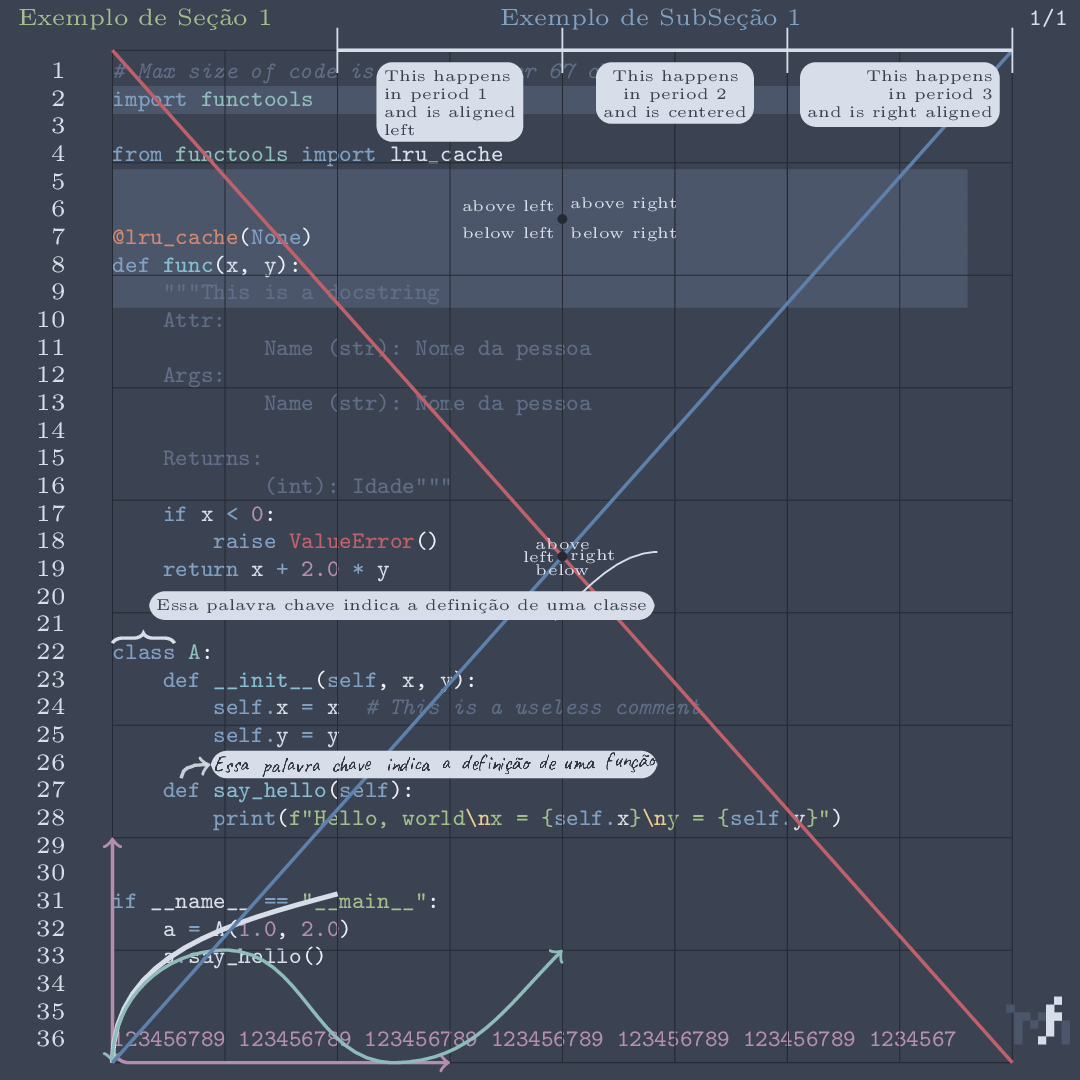
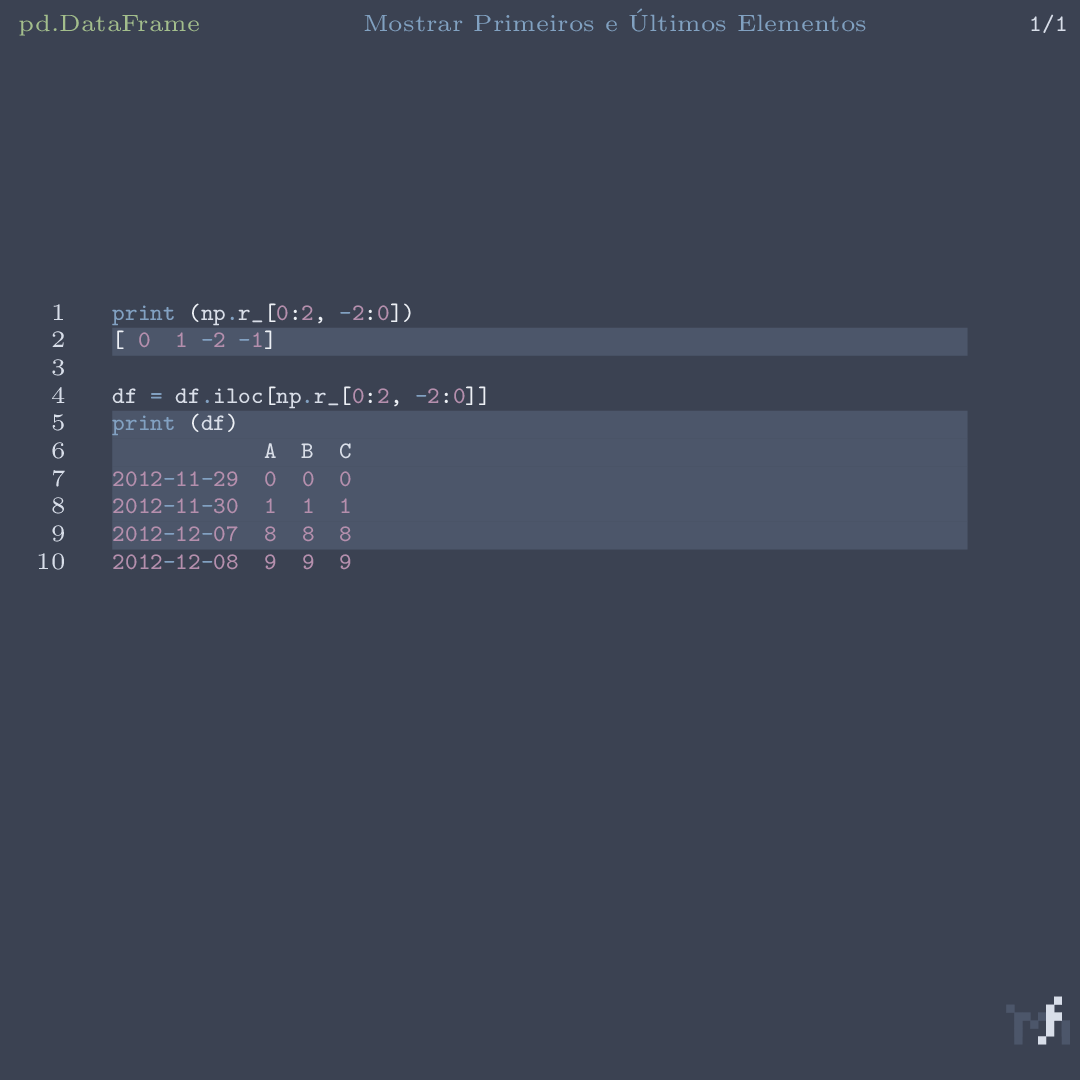
Add mdframed code

diff --git a/main.tex b/main.tex
@@ -10,11 +10,16 @@
 \usepackage{bm}
 \usepackage{textcomp}
 
+
 \usepackage{tikz}
 \usetikzlibrary{snakes}
 \usetikzlibrary{decorations.pathmorphing}
+\usetikzlibrary{shadows}
 \RequirePackage{tikz-penciline}
 
+
+\usepackage[framemethod=TikZ]{mdframed}
+\usepackage{showexpl}
 
 
 \definecolor{NordBG}{HTML}{242933}
@@ -50,7 +55,9 @@
 
 \setbeamertemplate{headline}
 {%
-	\vskip2pt\ \hskip2pt\tiny\textcolor{NordGreen}{\insertsection}\hfill\textcolor{NordBlue}{\insertsubsection}\hfill\ttfamily\insertpagenumber/\insertdocumentendpage\ \ \vskip2pt
+	% \vskip2pt\ \hskip2pt\tiny\textcolor{NordGreen}{\insertsection}\hfill\textcolor{NordBlue}{\insertsubsection}\hfill\ttfamily\insertpagenumber/\insertdocumentendpage\ \ \vskip2pt
+	% \vskip2pt\ \hskip2pt\footnotesize\textcolor{NordGreen}{\insertsection}\hfill\textcolor{NordBlue}{\insertsubsection}\ \ \vskip2pt
+	\vskip6pt\null\hfill\Large\textcolor{NordGreen}{\insertsection}\hfill\null\newline\vskip4pt\hfill\normalsize\textcolor{NordBlue}{\insertsubsection}\hfill\null
 }
 \setbeamertemplate{footline}
 {%
@@ -65,79 +72,178 @@
 % {\usebeamercolor{palette primary}}
 % \setbeamertemplate{sidebar canvas}[vertical shading][top=primary.bg,middle=white,bottom=primary.bg]
 
+\mdfdefinestyle{code}{%
+leftmargin=10pt,
+rightmargin=10pt,
+rightline=true,innerleftmargin=20,innerrightmargin=10,
+frametitlerule=false,
+backgroundcolor=NordBlack,
+frametitlerulewidth=0pt,
+align=center,
+linewidth=0pt,
+shadow=false,
+shadowsize=3pt,
+shadowcolor=NordWhite,
+roundcorner=20pt}
 
+\setbeamersize{text margin left=0mm,text margin right=0mm}
 \begin{document}
-\fontsize{4pt}{1}\selectfont
+% \fontsize{4pt}{1}\selectfont
 
-% \setbeamercolor{background canvas}{bg=NordBG}
+\setbeamercolor{background canvas}{bg=NordBG}
 
 \usemintedstyle{nord}
 
-\setminted[python]{texcomments=true,samepage=true,resetmargins=true,python3=true,tabsize=4,obeytabs=false,linenos=true,highlightcolor=NordBrightBlack,highlightlines={2, 5-9},fontsize=\tiny,autogobble,breaklines,breaksymbolleft=\textcolor{NordBrightBlack}{\tiny$\hookrightarrow$}}
 
-\section{Exemplo de Seção 1}
-\subsection{Exemplo de SubSeção 1}
-\begin{frame}[fragile=singleslide,noframenumbering,squeeze]
-	\inputminted{python}{example.py}
-	\vspace*{-3px}
-	\begin{tikzpicture}[%
-			overlay,%
-			remember picture,%
-			set style={{help lines}+=[very thin,NordBG]},%
-			pencildraw/.style={NordWhite,decorate,decoration={random steps,segment length=1pt,amplitude=0.15pt}},%
-			penciline={jag ratio=0.1}
-	]
-		\draw[help lines] (0,0) grid (8,9);
-		\draw [<->, rounded corners, thick, NordMagenta] (0,2) -- (0,0) -- (3,0);
-		\draw[very thick, NordWhite] (0,0) to [out=90,in=195] (2,1.5);
-		\draw [<->,thick, NordCyan] (0,0) to [out=90,in=180] (1,1)
-		to [out=0,in=180] (2.5,0) to [out=0,in=-135] (4,1) ;
-		\draw[NordRed, thick] (0,9) -- (8,0);
-		\draw[NordBrightBlue, thick] (0,0) -- (8,9);
-		\filldraw[NordBG] (4,4.5) circle (1pt);
-		\node [above] at (4,4.5) {above};
-		\node [below] at (4,4.5) {below};
-		\node [left] at (4,4.5) {left};
-		\node [right] at (4,4.5) {right};
+% \setminted[python]{texcomments=true,samepage=true,resetmargins=true,python3=true,tabsize=4,obeytabs=false,linenos=true,highlightcolor=NordBrightBlack,highlightlines={2, 5-9},fontsize=\tiny,autogobble,breaklines,breaksymbolleft=\textcolor{NordBrightBlack}{\tiny$\hookrightarrow$}}
+\setminted[python]{texcomments=true,samepage=true,resetmargins=true,python3=true,tabsize=4,obeytabs=false,linenos=false,fontsize=\large,autogobble,breaksymbolleft=\textcolor{NordBrightBlack}{\tiny$\hookrightarrow$}}
 
-		\filldraw[NordBG] (4,7.5) circle (1pt);
-		\node [below right] at (4,7.5) {below right};
-		\node [below left] at (4,7.5) {below left};
-		\node [above right] at (4,7.5) {above right};
-		\node [above left] at (4,7.5) {above left};
+% \section{pandas DataFrame \& numpy r\_ array}
+% \subsection{Mostrar Primeiros e Últimos Elementos}
+% \begin{frame}[fragile=singleslide,noframenumbering,squeeze]
 
-		\draw [thick]
-		(2,9) -- (8,9);
-		\draw (2,8.8) -- (2, 9.2);
-		\draw (4,8.8) -- (4, 9.2);
-		\draw (6,8.8) -- (6, 9.2);
-		\draw (8,8.8) -- (8, 9.2);
-		\begin{scope}[NordBlack]
-			\node[align=left, below,fill=NordWhite,rounded corners] at (3,8.9)%
-			{This happens\\in period 1\\and is aligned\\ left};
-			\node[align=center, below,fill=NordWhite,rounded corners] at (5,8.9)%
-			{This happens\\in period 2\\and is centered};
-			\node[align=right, below,fill=NordWhite,rounded corners] at (7,8.9)%
-			{This happens\\in period 3\\and is right aligned};
-		\end{scope}
+% \begin{mdframed}[style=exampledefault,frametitle={Inhomogeneous linear}]
+% Some Text
+% \end{mdframed}
 
-		\draw[x=10ex,y=10ex] (6.5,6.5) sin (8,7.5);
+% \end{frame}
 
-		\draw[snake=brace,thick] (0,3.73) -- (0.55,3.73);
-		\node[align=left,above right,NordBlack,fill=NordWhite,rounded corners] at (0.32,3.93)%
-		{Essa palavra chave indica a definição de uma classe};
+\section{Mostrar Primeiros e Últimos Elementos}
+\subsection{pandas DataFrame \& numpy r\_ array}
+\begin{frame}[noframenumbering]
+	\vskip30pt
+	\null\vfill
+	\begin{center}
+		\begin{mdframed}[style=code]
+			\inputminted{python}{df_head_tail.py}
+		\end{mdframed}
+	\end{center}
+	\vfill\null
 
-		\draw[->,pencildraw,thick,very nearly opaque] (0.61,2.53) to [out=80,in=180] (0.87,2.65);
-		\node[align=left,right,NordBlack,fill=NordWhite,rounded corners,inner sep=0.2ex] at (0.87,2.65)%
-		{\includegraphics[height=0.027\textheight]{def_func.png}};
-		% {Essa palavra chave indica a definição de uma função};
+	% \vspace*{-3px}
+	% \begin{tikzpicture}[%
+	% 		overlay,%
+	% 		remember picture,%
+	% 		set style={{help lines}+=[very thin,NordBG]},%
+	% 		pencildraw/.style={NordWhite,decorate,decoration={random steps,segment length=1pt,amplitude=0.15pt}},%
+	% 		penciline={jag ratio=0.1}
+	% ]
+	% 	\draw[help lines] (0,0) grid (8,9);
+	% 	\draw [<->, rounded corners, thick, NordMagenta] (0,2) -- (0,0) -- (3,0);
+	% 	\draw[very thick, NordWhite] (0,0) to [out=90,in=195] (2,1.5);
+	% 	\draw [<->,thick, NordCyan] (0,0) to [out=90,in=180] (1,1)
+	% 	to [out=0,in=180] (2.5,0) to [out=0,in=-135] (4,1) ;
+	% 	\draw[NordRed, thick] (0,9) -- (8,0);
+	% 	\draw[NordBrightBlue, thick] (0,0) -- (8,9);
+	% 	\filldraw[NordBG] (4,4.5) circle (1pt);
+	% 	\node [above] at (4,4.5) {above};
+	% 	\node [below] at (4,4.5) {below};
+	% 	\node [left] at (4,4.5) {left};
+	% 	\node [right] at (4,4.5) {right};
 
-		% \filldraw[NordWhite] (0.61,2.53) circle (1pt);
-		% \filldraw[NordWhite] (0.91,2.6) circle (1pt);
-	\end{tikzpicture}
+	% 	\filldraw[NordBG] (4,7.5) circle (1pt);
+	% 	\node [below right] at (4,7.5) {below right};
+	% 	\node [below left] at (4,7.5) {below left};
+	% 	\node [above right] at (4,7.5) {above right};
+	% 	\node [above left] at (4,7.5) {above left};
+
+	% 	\draw [thick]
+	% 	(2,9) -- (8,9);
+	% 	\draw (2,8.8) -- (2, 9.2);
+	% 	\draw (4,8.8) -- (4, 9.2);
+	% 	\draw (6,8.8) -- (6, 9.2);
+	% 	\draw (8,8.8) -- (8, 9.2);
+	% 	\begin{scope}[NordBlack]
+	% 		\node[align=left, below,fill=NordWhite,rounded corners] at (3,8.9)%
+	% 		{This happens\\in period 1\\and is aligned\\ left};
+	% 		\node[align=center, below,fill=NordWhite,rounded corners] at (5,8.9)%
+	% 		{This happens\\in period 2\\and is centered};
+	% 		\node[align=right, below,fill=NordWhite,rounded corners] at (7,8.9)%
+	% 		{This happens\\in period 3\\and is right aligned};
+	% 	\end{scope}
+
+	% 	\draw[x=10ex,y=10ex] (6.5,6.5) sin (8,7.5);
+
+	% 	\draw[snake=brace,thick] (0,3.73) -- (0.55,3.73);
+	% 	\node[align=left,above right,NordBlack,fill=NordWhite,rounded corners] at (0.32,3.93)%
+	% 	{Essa palavra chave indica a definição de uma classe};
+
+	% 	\draw[->,pencildraw,thick,very nearly opaque] (0.61,2.53) to [out=80,in=180] (0.87,2.65);
+	% 	\node[align=left,right,NordBlack,fill=NordWhite,rounded corners,inner sep=0.2ex] at (0.87,2.65)%
+	% 	{\includegraphics[height=0.027\textheight]{def_func.png}};
+	% 	% {Essa palavra chave indica a definição de uma função};
+
+	% 	% \filldraw[NordWhite] (0.61,2.53) circle (1pt);
+	% 	% \filldraw[NordWhite] (0.91,2.6) circle (1pt);
+	% \end{tikzpicture}
 
 
 \end{frame}
+
+
+% \section{Exemplo de Seção 1}
+% \subsection{Exemplo de SubSeção 1}
+% \begin{frame}[fragile=singleslide,noframenumbering,squeeze]
+% 	\inputminted{python}{example.py}
+% 	\vspace*{-3px}
+% 	\begin{tikzpicture}[%
+% 			overlay,%
+% 			remember picture,%
+% 			set style={{help lines}+=[very thin,NordBG]},%
+% 			pencildraw/.style={NordWhite,decorate,decoration={random steps,segment length=1pt,amplitude=0.15pt}},%
+% 			penciline={jag ratio=0.1}
+% 	]
+% 		\draw[help lines] (0,0) grid (8,9);
+% 		\draw [<->, rounded corners, thick, NordMagenta] (0,2) -- (0,0) -- (3,0);
+% 		\draw[very thick, NordWhite] (0,0) to [out=90,in=195] (2,1.5);
+% 		\draw [<->,thick, NordCyan] (0,0) to [out=90,in=180] (1,1)
+% 		to [out=0,in=180] (2.5,0) to [out=0,in=-135] (4,1) ;
+% 		\draw[NordRed, thick] (0,9) -- (8,0);
+% 		\draw[NordBrightBlue, thick] (0,0) -- (8,9);
+% 		\filldraw[NordBG] (4,4.5) circle (1pt);
+% 		\node [above] at (4,4.5) {above};
+% 		\node [below] at (4,4.5) {below};
+% 		\node [left] at (4,4.5) {left};
+% 		\node [right] at (4,4.5) {right};
+
+% 		\filldraw[NordBG] (4,7.5) circle (1pt);
+% 		\node [below right] at (4,7.5) {below right};
+% 		\node [below left] at (4,7.5) {below left};
+% 		\node [above right] at (4,7.5) {above right};
+% 		\node [above left] at (4,7.5) {above left};
+
+% 		\draw [thick]
+% 		(2,9) -- (8,9);
+% 		\draw (2,8.8) -- (2, 9.2);
+% 		\draw (4,8.8) -- (4, 9.2);
+% 		\draw (6,8.8) -- (6, 9.2);
+% 		\draw (8,8.8) -- (8, 9.2);
+% 		\begin{scope}[NordBlack]
+% 			\node[align=left, below,fill=NordWhite,rounded corners] at (3,8.9)%
+% 			{This happens\\in period 1\\and is aligned\\ left};
+% 			\node[align=center, below,fill=NordWhite,rounded corners] at (5,8.9)%
+% 			{This happens\\in period 2\\and is centered};
+% 			\node[align=right, below,fill=NordWhite,rounded corners] at (7,8.9)%
+% 			{This happens\\in period 3\\and is right aligned};
+% 		\end{scope}
+
+% 		\draw[x=10ex,y=10ex] (6.5,6.5) sin (8,7.5);
+
+% 		\draw[snake=brace,thick] (0,3.73) -- (0.55,3.73);
+% 		\node[align=left,above right,NordBlack,fill=NordWhite,rounded corners] at (0.32,3.93)%
+% 		{Essa palavra chave indica a definição de uma classe};
+
+% 		\draw[->,pencildraw,thick,very nearly opaque] (0.61,2.53) to [out=80,in=180] (0.87,2.65);
+% 		\node[align=left,right,NordBlack,fill=NordWhite,rounded corners,inner sep=0.2ex] at (0.87,2.65)%
+% 		{\includegraphics[height=0.027\textheight]{def_func.png}};
+% 		% {Essa palavra chave indica a definição de uma função};
+
+% 		% \filldraw[NordWhite] (0.61,2.53) circle (1pt);
+% 		% \filldraw[NordWhite] (0.91,2.6) circle (1pt);
+% 	\end{tikzpicture}
+
+
+% \end{frame}
 
 
 % \begin{frame}{Font size in Beamer (default)}

diff --git a/df_head_tail.py b/df_head_tail.py
@@ -1,0 +1,11 @@
+print (np.r_[0:2, -2:0])
+[0  1 -2 -1]
+
+df = df.iloc[np.r_[0:2, -2:0]]
+print (df)
+            A  B  C
+2012-11-29  0  0  0
+2012-11-30  1  1  1
+2012-12-07  8  8  8
+2012-12-08  9  9  9
+
